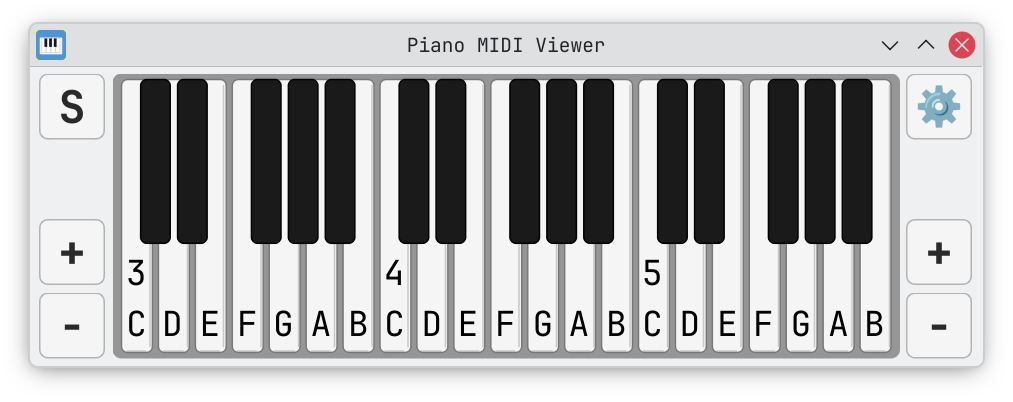
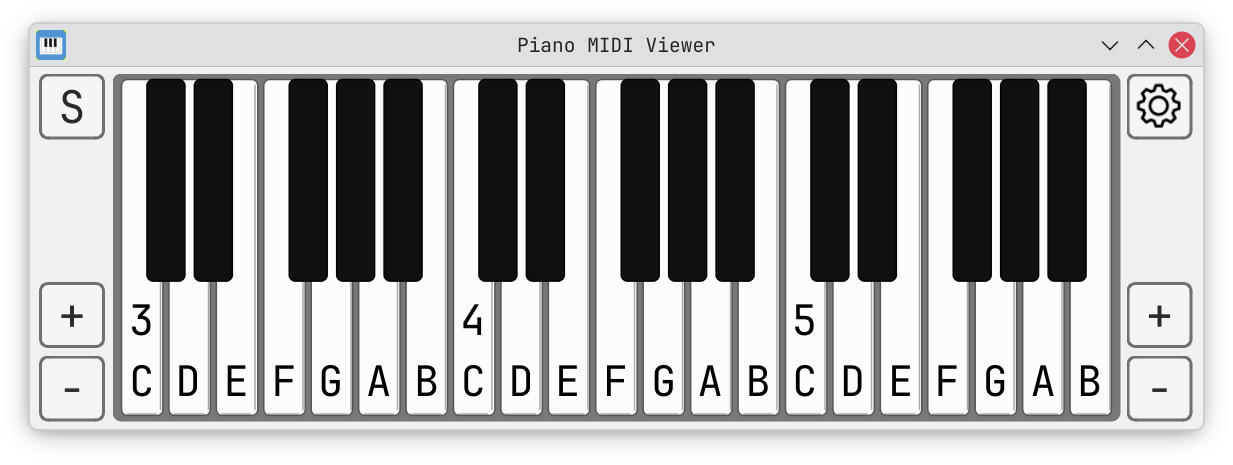
Release v6.3.2 - OBS Integration & Visual Polish
- Octave range persistence: keyboard range now saved to settings
- Window geometry: size and position properly restored on startup
- Enhanced visual contrast: darker background (150→120), crisper borders, deeper black keys
- Fixed minimum window size: now updates when octaves added/removed
- Wider default keys: 32px (was 25px) for better proportions
- Stronger button borders: 2px solid #707070 for sharper appearance
- Updated screenshots showcasing new visual style

diff --git a/piano_viewer.py b/piano_viewer.py
@@ -3,8 +3,15 @@
 Piano MIDI Viewer - A visual piano keyboard that displays MIDI input
 Created for music education and online lessons via OBS
 
-Version: 6.3.1
+Version: 6.3.2
 License: GPL-3.0
+
+Changes in 6.3.2:
+- Octave range persistence: Keyboard range (start_note, end_note) now saved to settings
+- Window geometry: Size and position properly restored on startup
+- Perfect for OBS integration: Restart the app and it remembers your exact setup
+- Enhanced visual contrast: Darker background, crisper key borders, deeper shadows for better OBS capture
+- Fixed minimum window size: Now updates when octaves added/removed (prevents UI overlap)
 
 Changes in 6.3.1:
 - Cross-platform UI consistency: Buttons now look identical on Windows and Linux
@@ -91,7 +98,7 @@ from PyQt6.QtGui import QPainter, QColor, QPen, QBrush, QFont, QIcon, QPixmap, Q
 DEFAULT_HIGHLIGHT_COLOR = QColor(80, 148, 212)  # #5094d4
 
 # BACKGROUND COLOR
-BACKGROUND_COLOR = QColor(150, 150, 150)
+BACKGROUND_COLOR = QColor(120, 120, 120)  # Darker for better contrast with white keys
 
 # MIDI NOTE RANGE
 MIDI_NOTE_MIN = 21   # A0
@@ -103,7 +110,7 @@ DEFAULT_END_NOTE = 83    # B5
 
 # SINGLE WHITE KEY - Foundation of all sizing
 # Everything scales from white_key_width as the anchor
-INITIAL_KEY_WIDTH = 25  # pixels (tweakable)
+INITIAL_KEY_WIDTH = 32  # pixels (tweakable)
 
 # HEIGHT RATIO LIMITS
 # white_key_height = white_key_width × height_ratio
@@ -179,36 +186,27 @@ def create_piano_icon():
     return QIcon(pixmap)
 
 
-def create_settings_icon(size=64, color="#666666"):
+def create_settings_icon(size=64, color="#000000"):
     """
     Creates a cogwheel/gear settings icon as a QIcon.
 
     Uses SVG for consistent rendering across all platforms (Windows, Linux, macOS).
-    The icon is a 6-tooth gear with a clean, recognizable design.
+    Based on Creative Commons icon from SVG Repo.
 
     Args:
         size: Icon size in pixels (default 64)
-        color: Hex color for the gear (default dark gray)
+        color: Hex color for the gear (default black)
 
     Returns:
         QIcon: The settings gear icon
     """
-    # SVG cogwheel - 6 teeth, clean minimal design
-    # Outer ring with teeth + center hole cutout
+    # SVG cogwheel - clean design with 6 teeth and center hole
+    # Source: SVG Repo (Creative Commons)
     svg_data = f"""
-    <svg width="{size}" height="{size}" viewBox="0 0 100 100" xmlns="http://www.w3.org/2000/svg">
-        <g fill="{color}">
-            <!-- Gear body with 6 teeth -->
-            <path d="
-                M43,8 L57,8 L57,18 C60,19 63,20 66,22 L73,13 L83,23 L74,32
-                C76,35 77,38 78,41 L92,41 L92,59 L78,59 C77,62 76,65 74,68
-                L83,77 L73,87 L66,78 C63,80 60,81 57,82 L57,92 L43,92 L43,82
-                C40,81 37,80 34,78 L27,87 L17,77 L26,68 C24,65 23,62 22,59
-                L8,59 L8,41 L22,41 C23,38 24,35 26,32 L17,23 L27,13 L34,22
-                C37,20 40,19 43,18 Z
-            "/>
-            <!-- Center hole (cut out with background color) -->
-            <circle cx="50" cy="50" r="16" fill="#f5f5f5"/>
+    <svg width="{size}" height="{size}" viewBox="0 0 8.467 8.467" xmlns="http://www.w3.org/2000/svg">
+        <g transform="translate(0,-288.533)" fill="{color}">
+            <path d="m 3.704,288.798 a 0.265,0.265 0 0 0 -0.251,0.181 l -0.269,0.806 c -0.108,0.038 -0.215,0.082 -0.318,0.132 l -0.76,-0.38 a 0.265,0.265 0 0 0 -0.305,0.05 l -0.748,0.748 a 0.265,0.265 0 0 0 -0.05,0.305 l 0.379,0.759 c -0.05,0.104 -0.094,0.211 -0.132,0.32 l -0.805,0.269 a 0.265,0.265 0 0 0 -0.181,0.251 v 1.058 a 0.265,0.265 0 0 0 0.181,0.251 l 0.808,0.269 c 0.038,0.108 0.082,0.213 0.131,0.316 l -0.381,0.762 a 0.265,0.265 0 0 0 0.05,0.305 l 0.748,0.749 a 0.265,0.265 0 0 0 0.305,0.05 l 0.76,-0.38 c 0.104,0.05 0.209,0.093 0.318,0.131 l 0.269,0.807 a 0.265,0.265 0 0 0 0.251,0.181 h 1.058 a 0.265,0.265 0 0 0 0.251,-0.181 l 0.269,-0.809 c 0.108,-0.038 0.213,-0.082 0.316,-0.131 l 0.762,0.381 a 0.265,0.265 0 0 0 0.305,-0.05 l 0.748,-0.749 a 0.265,0.265 0 0 0 0.05,-0.305 l -0.38,-0.76 c 0.05,-0.104 0.094,-0.21 0.132,-0.319 l 0.806,-0.269 a 0.265,0.265 0 0 0 0.181,-0.251 v -1.058 a 0.265,0.265 0 0 0 -0.181,-0.251 l -0.807,-0.269 c -0.038,-0.108 -0.082,-0.214 -0.132,-0.318 l 0.38,-0.761 a 0.265,0.265 0 0 0 -0.05,-0.305 l -0.748,-0.748 a 0.265,0.265 0 0 0 -0.305,-0.05 l -0.758,0.379 c -0.105,-0.05 -0.212,-0.094 -0.321,-0.132 l -0.268,-0.805 a 0.265,0.265 0 0 0 -0.251,-0.181 z m 0.191,0.529 h 0.677 l 0.245,0.737 a 0.265,0.265 0 0 0 0.176,0.17 c 0.172,0.051 0.339,0.12 0.497,0.205 a 0.265,0.265 0 0 0 0.243,0.004 l 0.694,-0.347 0.479,0.479 -0.348,0.697 a 0.265,0.265 0 0 0 0.003,0.244 c 0.085,0.157 0.154,0.322 0.205,0.493 a 0.265,0.265 0 0 0 0.169,0.175 l 0.739,0.246 v 0.677 l -0.738,0.246 a 0.265,0.265 0 0 0 -0.169,0.175 c -0.051,0.171 -0.12,0.337 -0.205,0.495 a 0.265,0.265 0 0 0 -0.003,0.244 l 0.347,0.695 -0.479,0.479 -0.698,-0.349 a 0.265,0.265 0 0 0 -0.244,0.004 c -0.157,0.084 -0.321,0.153 -0.491,0.204 a 0.265,0.265 0 0 0 -0.175,0.17 l -0.247,0.74 H 3.895 l -0.247,-0.739 a 0.265,0.265 0 0 0 -0.175,-0.17 c -0.171,-0.051 -0.337,-0.119 -0.494,-0.204 a 0.265,0.265 0 0 0 -0.243,-0.004 l -0.696,0.348 -0.479,-0.479 0.349,-0.698 a 0.265,0.265 0 0 0 -0.004,-0.244 c -0.084,-0.157 -0.153,-0.322 -0.205,-0.492 a 0.265,0.265 0 0 0 -0.169,-0.175 l -0.739,-0.246 v -0.677 l 0.737,-0.246 a 0.265,0.265 0 0 0 0.17,-0.175 c 0.051,-0.172 0.12,-0.338 0.205,-0.496 a 0.265,0.265 0 0 0 0.004,-0.244 l -0.347,-0.694 0.479,-0.479 0.696,0.348 a 0.265,0.265 0 0 0 0.244,-0.004 c 0.157,-0.085 0.323,-0.154 0.494,-0.205 a 0.265,0.265 0 0 0 0.175,-0.17 z"/>
+            <path d="m 4.232,290.914 c -1.02,0 -1.851,0.834 -1.851,1.854 0,1.019 0.831,1.851 1.851,1.851 1.02,0 1.854,-0.832 1.854,-1.851 0,-1.02 -0.834,-1.854 -1.854,-1.854 z m 0,0.53 c 0.734,0 1.324,0.59 1.324,1.324 0,0.734 -0.59,1.322 -1.324,1.322 -0.734,0 -1.322,-0.588 -1.322,-1.322 0,-0.734 0.588,-1.324 1.322,-1.324 z"/>
         </g>
     </svg>
     """
@@ -868,7 +866,7 @@ class PianoKeyboard(QWidget):
         is_highlighted = (midi_note in self.active_notes or
                          midi_note in self.sustained_notes or
                          midi_note == self.mouse_held_note)
-        fill_color = self.highlight_color if is_highlighted else QColor(245, 245, 245)
+        fill_color = self.highlight_color if is_highlighted else QColor(252, 252, 252)
 
         painter.setBrush(QBrush(fill_color))
         painter.setPen(Qt.PenStyle.NoPen)
@@ -879,7 +877,7 @@ class PianoKeyboard(QWidget):
 
         # Draw shadow lines on non-highlighted keys
         if not is_highlighted:
-            shadow_color = QColor(200, 200, 200)
+            shadow_color = QColor(170, 170, 170)
             painter.setPen(QPen(shadow_color, 1))
 
             painter.drawLine(
@@ -893,7 +891,7 @@ class PianoKeyboard(QWidget):
             )
 
         # Draw border - darker when highlighted for better visibility
-        border_color = QColor(60, 60, 60) if is_highlighted else QColor(120, 120, 120)
+        border_color = QColor(25, 25, 25) if is_highlighted else QColor(85, 85, 85)
         painter.setPen(QPen(border_color, 1))
         painter.setBrush(Qt.BrushStyle.NoBrush)
         painter.drawRoundedRect(
@@ -918,7 +916,7 @@ class PianoKeyboard(QWidget):
         is_highlighted = (midi_note in self.active_notes or
                          midi_note in self.sustained_notes or
                          midi_note == self.mouse_held_note)
-        fill_color = self.highlight_color if is_highlighted else QColor(26, 26, 26)
+        fill_color = self.highlight_color if is_highlighted else QColor(16, 16, 16)
 
         painter.setBrush(QBrush(fill_color))
         painter.setPen(Qt.PenStyle.NoPen)
@@ -1468,10 +1466,10 @@ class PianoMIDIViewer(QMainWindow):
         initial_width, initial_height = calculate_initial_window_size()
         self.resize(initial_width, initial_height)
 
-        # Set minimum size (for UI usability)
+        # Set minimum size (for UI usability) - uses defaults since piano not created yet
         num_white_keys = count_white_keys(DEFAULT_START_NOTE, DEFAULT_END_NOTE)
         min_key_width = PRACTICAL_MIN_KEY_WIDTH
-        min_key_height = min_key_width * MIN_HEIGHT_RATIO  # Minimum height at ratio 3
+        min_key_height = min_key_width * MIN_HEIGHT_RATIO
         min_width = (min_key_width * num_white_keys) + TOTAL_HORIZONTAL_MARGIN
         min_height = min_key_height + (KEYBOARD_CANVAS_MARGIN * 2) + WINDOW_VERTICAL_MARGIN
         self.setMinimumSize(int(min_width), int(min_height))
@@ -1487,7 +1485,7 @@ class PianoMIDIViewer(QMainWindow):
         button_style = """
             QPushButton {
                 background-color: #f5f5f5;
-                border: 1px solid #b4b4b4;
+                border: 2px solid #707070;
                 border-radius: 6px;
                 padding: 0px;
                 color: #2a2a2a;
@@ -1561,7 +1559,7 @@ class PianoMIDIViewer(QMainWindow):
         self.settings_button = QPushButton()
         self.settings_button.setToolTip("Open Settings")
         self.settings_button.setFixedSize(BUTTON_SIZE, BUTTON_SIZE)
-        self.settings_button.setIcon(create_settings_icon(BUTTON_SIZE, "#666666"))
+        self.settings_button.setIcon(create_settings_icon(BUTTON_SIZE, "#000000"))
         self.settings_button.setIconSize(self.settings_button.size() * 0.7)
         self.settings_button.setStyleSheet(button_style)
         self.settings_button.clicked.connect(self.open_settings)
@@ -1607,6 +1605,7 @@ class PianoMIDIViewer(QMainWindow):
         - MIDI device selection
         - Highlight color
         - Note name and octave number display options
+        - Keyboard range (start_note and end_note)
         - Window size and position
 
         If the config file doesn't exist, default values are used.
@@ -1651,6 +1650,19 @@ class PianoMIDIViewer(QMainWindow):
             if config.has_option('appearance', 'show_names_when_pressed'):
                 self.show_names_when_pressed = config.getboolean('appearance', 'show_names_when_pressed')
 
+            # Load keyboard range (must be before geometry restoration)
+            if config.has_option('keyboard', 'start_note') and config.has_option('keyboard', 'end_note'):
+                start_note = config.getint('keyboard', 'start_note')
+                end_note = config.getint('keyboard', 'end_note')
+                # Validate the range
+                if (MIDI_NOTE_MIN <= start_note <= MIDI_NOTE_MAX and
+                    MIDI_NOTE_MIN <= end_note <= MIDI_NOTE_MAX and
+                    end_note >= start_note + 11):  # At least 1 octave
+                    self.piano.start_note = start_note
+                    self.piano.end_note = end_note
+                    self.update_button_states()
+                    self.update_minimum_size()
+
             # Load window geometry (size and position)
             # Using Qt's saveGeometry/restoreGeometry handles window manager issues better
             if config.has_option('window', 'geometry'):
@@ -1670,6 +1682,7 @@ class PianoMIDIViewer(QMainWindow):
         - Current MIDI device
         - Highlight color
         - Note name and octave number display options
+        - Keyboard range (start_note and end_note)
         - Window size and position
         """
         config_path = get_config_path()
@@ -1688,6 +1701,12 @@ class PianoMIDIViewer(QMainWindow):
             'show_black_key_names': str(self.show_black_key_names),
             'black_key_notation': self.black_key_notation,
             'show_names_when_pressed': str(self.show_names_when_pressed)
+        }
+
+        # Keyboard range settings
+        config['keyboard'] = {
+            'start_note': str(self.piano.start_note),
+            'end_note': str(self.piano.end_note)
         }
 
         # Window settings
@@ -1756,7 +1775,7 @@ class PianoMIDIViewer(QMainWindow):
                     background-color: {color};
                     color: white;
                     font-weight: bold;
-                    border: 1px solid #b4b4b4;
+                    border: 2px solid #707070;
                     border-radius: 6px;
                 }}
             """)
@@ -1764,7 +1783,7 @@ class PianoMIDIViewer(QMainWindow):
             self.sustain_button.setStyleSheet("""
                 QPushButton {
                     background-color: #f5f5f5;
-                    border: 1px solid #b4b4b4;
+                    border: 2px solid #707070;
                     border-radius: 6px;
                     color: #2a2a2a;
                     font-weight: bold;
@@ -1985,7 +2004,7 @@ class PianoMIDIViewer(QMainWindow):
                     background-color: {color};
                     color: white;
                     font-weight: bold;
-                    border: 1px solid #b4b4b4;
+                    border: 2px solid #707070;
                     border-radius: 6px;
                 }}
             """)
@@ -1993,7 +2012,7 @@ class PianoMIDIViewer(QMainWindow):
             button.setStyleSheet("""
                 QPushButton {
                     background-color: #f5f5f5;
-                    border: 1px solid #b4b4b4;
+                    border: 2px solid #707070;
                     border-radius: 6px;
                     color: #2a2a2a;
                     font-weight: bold;
@@ -2037,6 +2056,7 @@ class PianoMIDIViewer(QMainWindow):
 
             self.piano.update()
             self.update_button_states()
+            self.update_minimum_size()
 
     def remove_octave_left(self):
         """Removes an octave from the left."""
@@ -2073,6 +2093,7 @@ class PianoMIDIViewer(QMainWindow):
 
             self.piano.update()
             self.update_button_states()
+            self.update_minimum_size()
 
     def add_octave_right(self):
         """Adds an octave to the right (higher notes)."""
@@ -2109,6 +2130,7 @@ class PianoMIDIViewer(QMainWindow):
 
             self.piano.update()
             self.update_button_states()
+            self.update_minimum_size()
 
     def remove_octave_right(self):
         """Removes an octave from the right."""
@@ -2145,6 +2167,7 @@ class PianoMIDIViewer(QMainWindow):
 
             self.piano.update()
             self.update_button_states()
+            self.update_minimum_size()
 
     def update_button_states(self):
         """Updates the enabled/disabled state of octave control buttons."""
@@ -2152,6 +2175,15 @@ class PianoMIDIViewer(QMainWindow):
         self.left_minus_btn.setEnabled(self.piano.end_note - self.piano.start_note > 11)
         self.right_plus_btn.setEnabled(self.piano.end_note < MIDI_NOTE_MAX - 12)
         self.right_minus_btn.setEnabled(self.piano.end_note - self.piano.start_note > 11)
+
+    def update_minimum_size(self):
+        """Updates minimum window size based on current octave range."""
+        num_white_keys = count_white_keys(self.piano.start_note, self.piano.end_note)
+        min_key_width = PRACTICAL_MIN_KEY_WIDTH
+        min_key_height = min_key_width * MIN_HEIGHT_RATIO
+        min_width = (min_key_width * num_white_keys) + TOTAL_HORIZONTAL_MARGIN
+        min_height = min_key_height + (KEYBOARD_CANVAS_MARGIN * 2) + WINDOW_VERTICAL_MARGIN
+        self.setMinimumSize(int(min_width), int(min_height))
 
     # WINDOW MANAGEMENT
 
@@ -2252,7 +2284,7 @@ class PianoMIDIViewer(QMainWindow):
 
 def main():
     """Creates and runs the application."""
-    print("Piano MIDI Viewer - Version 6.2.0")
+    print("Piano MIDI Viewer - Version 6.3.2")
     print("=" * 40)
     print(f"Initial key size: {INITIAL_KEY_WIDTH}px × {INITIAL_KEY_HEIGHT}px")
     print(f"Height ratio limits: {MIN_HEIGHT_RATIO}× to {MAX_HEIGHT_RATIO}× (height/width)")

diff --git a/CLAUDE.md b/CLAUDE.md
@@ -8,7 +8,14 @@ Piano MIDI Viewer is a PyQt6-based desktop application that displays a visual pi
 
 **Single-file architecture**: The entire application is contained in `piano_viewer.py` (~2100 lines).
 
-**Current Version: 6.3.1**
+**Current Version: 6.3.2**
+
+### Changes in 6.3.2
+- **Octave range persistence**: Keyboard range (start_note, end_note) now saved to settings file
+- **Window geometry restoration**: Size and position properly restored on startup
+- **OBS-friendly**: Perfect for video production - restart the app and it remembers your exact setup
+- **Enhanced visual contrast**: Darker background (150→120), crisper borders (120→85), deeper black keys (26→16) for sharper OBS capture
+- **Fixed minimum window size**: Now dynamically updates when octaves are added/removed, preventing UI overlap
 
 ### Changes in 6.3.1
 - **Cross-platform UI consistency**: Buttons now render identically on Windows and Linux
@@ -219,9 +226,11 @@ The application follows a **single-file, class-based PyQt6 architecture** with f
 
 **Icon Generation**: All icons created at runtime from embedded SVG
 - `create_piano_icon()` - App icon (piano keys in Arch Blue)
-- `create_settings_icon()` - Cogwheel gear for settings button
+- `create_settings_icon()` - Cogwheel gear for settings button (CC0 from SVG Repo)
 - No external icon files needed
 - Ensures identical appearance across Windows/Linux
+
+**Button Typography**: All button labels (S, +, −) use JetBrains Mono for cross-platform consistency
 
 ## Code Organization
 
@@ -236,6 +245,13 @@ PIANO KEYBOARD    - Custom rendering widget (PianoKeyboard class)
 MAIN WINDOW       - Application controller (PianoMIDIViewer class)
 ENTRY POINT       - main() function
 ```
+
+Key additions in 6.3.2:
+- Extended `save_settings()` to save keyboard range (start_note, end_note) in new `[keyboard]` section
+- Extended `load_settings()` to restore keyboard range before geometry restoration
+- Keyboard range validated on load: must be within MIDI_NOTE_MIN/MAX and at least 1 octave
+- `update_minimum_size()` - New method to recalculate minimum window size based on current octave range
+- All octave add/remove methods now call `update_minimum_size()` after changing the range
 
 Key additions in 6.1.0:
 - `PianoMIDIViewer.show_names_when_pressed` - New setting to show note names only on active keys
@@ -378,9 +394,9 @@ Mode is locked for entire drag:
 - **Button icons**: Font size is 70% of button size (ICON_SIZE_RATIO = 0.7)
 - **Layout margins**: Hardcoded at 5px (LAYOUT_MARGIN), don't scale with window
 - **Key corner radius**: 8% of key width with 4px minimum (KEY_CORNER_RADIUS_RATIO = 0.08)
-- **Keyboard canvas**: Grey background (150, 150, 150), 4px margin, 6px rounded corners
-- **White keys**: Off-white (245, 245, 245) with subtle shadow lines, dark borders when highlighted (60, 60, 60)
-- **Black keys**: Near-black (26, 26, 26) with black borders
+- **Keyboard canvas**: Grey background (120, 120, 120), 4px margin, 6px rounded corners
+- **White keys**: Off-white (252, 252, 252) with shadow lines (170), borders normal (85) / highlighted (25)
+- **Black keys**: Near-black (16, 16, 16) with black borders
 
 ## Future Features & Ideas
 

diff --git a/README.md b/README.md
@@ -18,23 +18,21 @@ A virtual piano keyboard that displays MIDI input in real-time. Built for music 
 
 ## Screenshots
 
-### Default
+<img src="screenshots/default-interface.png" height="250">
 
-<img src="screenshots/default-interface.png" height="300">
+*Default look*
 
-### Examples
+<img src="screenshots/sustained-blue-2-octaves.png" height="250">
 
-<img src="screenshots/sustained-blue-2-octaves.png" height="300">
+*Arch Blue, 2 octaves, showing sharps*
 
-*Arch Blue (default), 2 octaves, showing sharps*
+<img src="screenshots/sustained-red-4-octaves.png" height="200">
 
-<img src="screenshots/sustained-red-4-octaves.png" height="250">
+*Red, 4 octaves, showing flats, labels only on active keys*
 
-*Red, 4 octaves, labels shown only when pressed*
+<img src="screenshots/sustained-teal.png" height="250">
 
-<img src="screenshots/sustained-teal.png" height="300">
-
-*Teal, 2 octaves, showing both sharps and flats*
+*Teal, showing both sharps and flats, no labels on white keys*
 
 ### Settings
 
